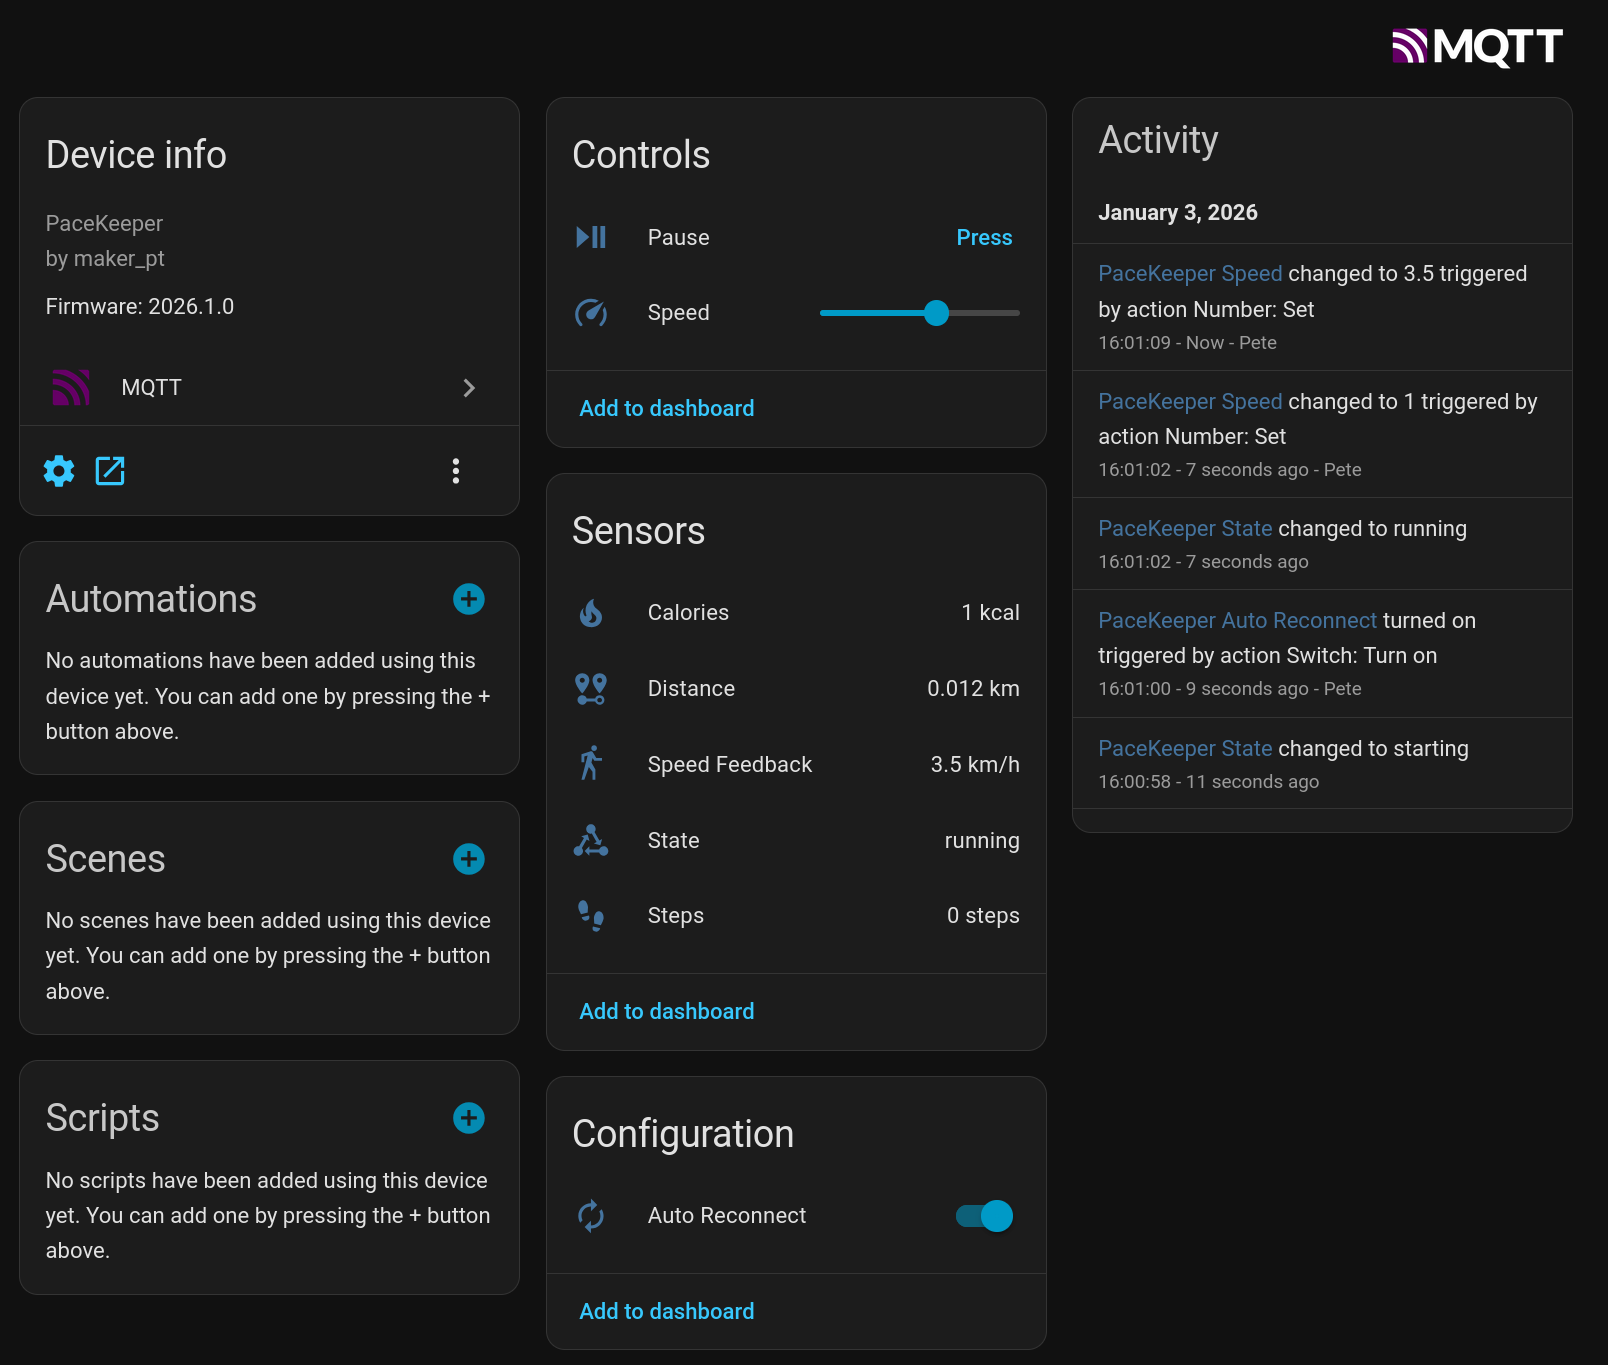
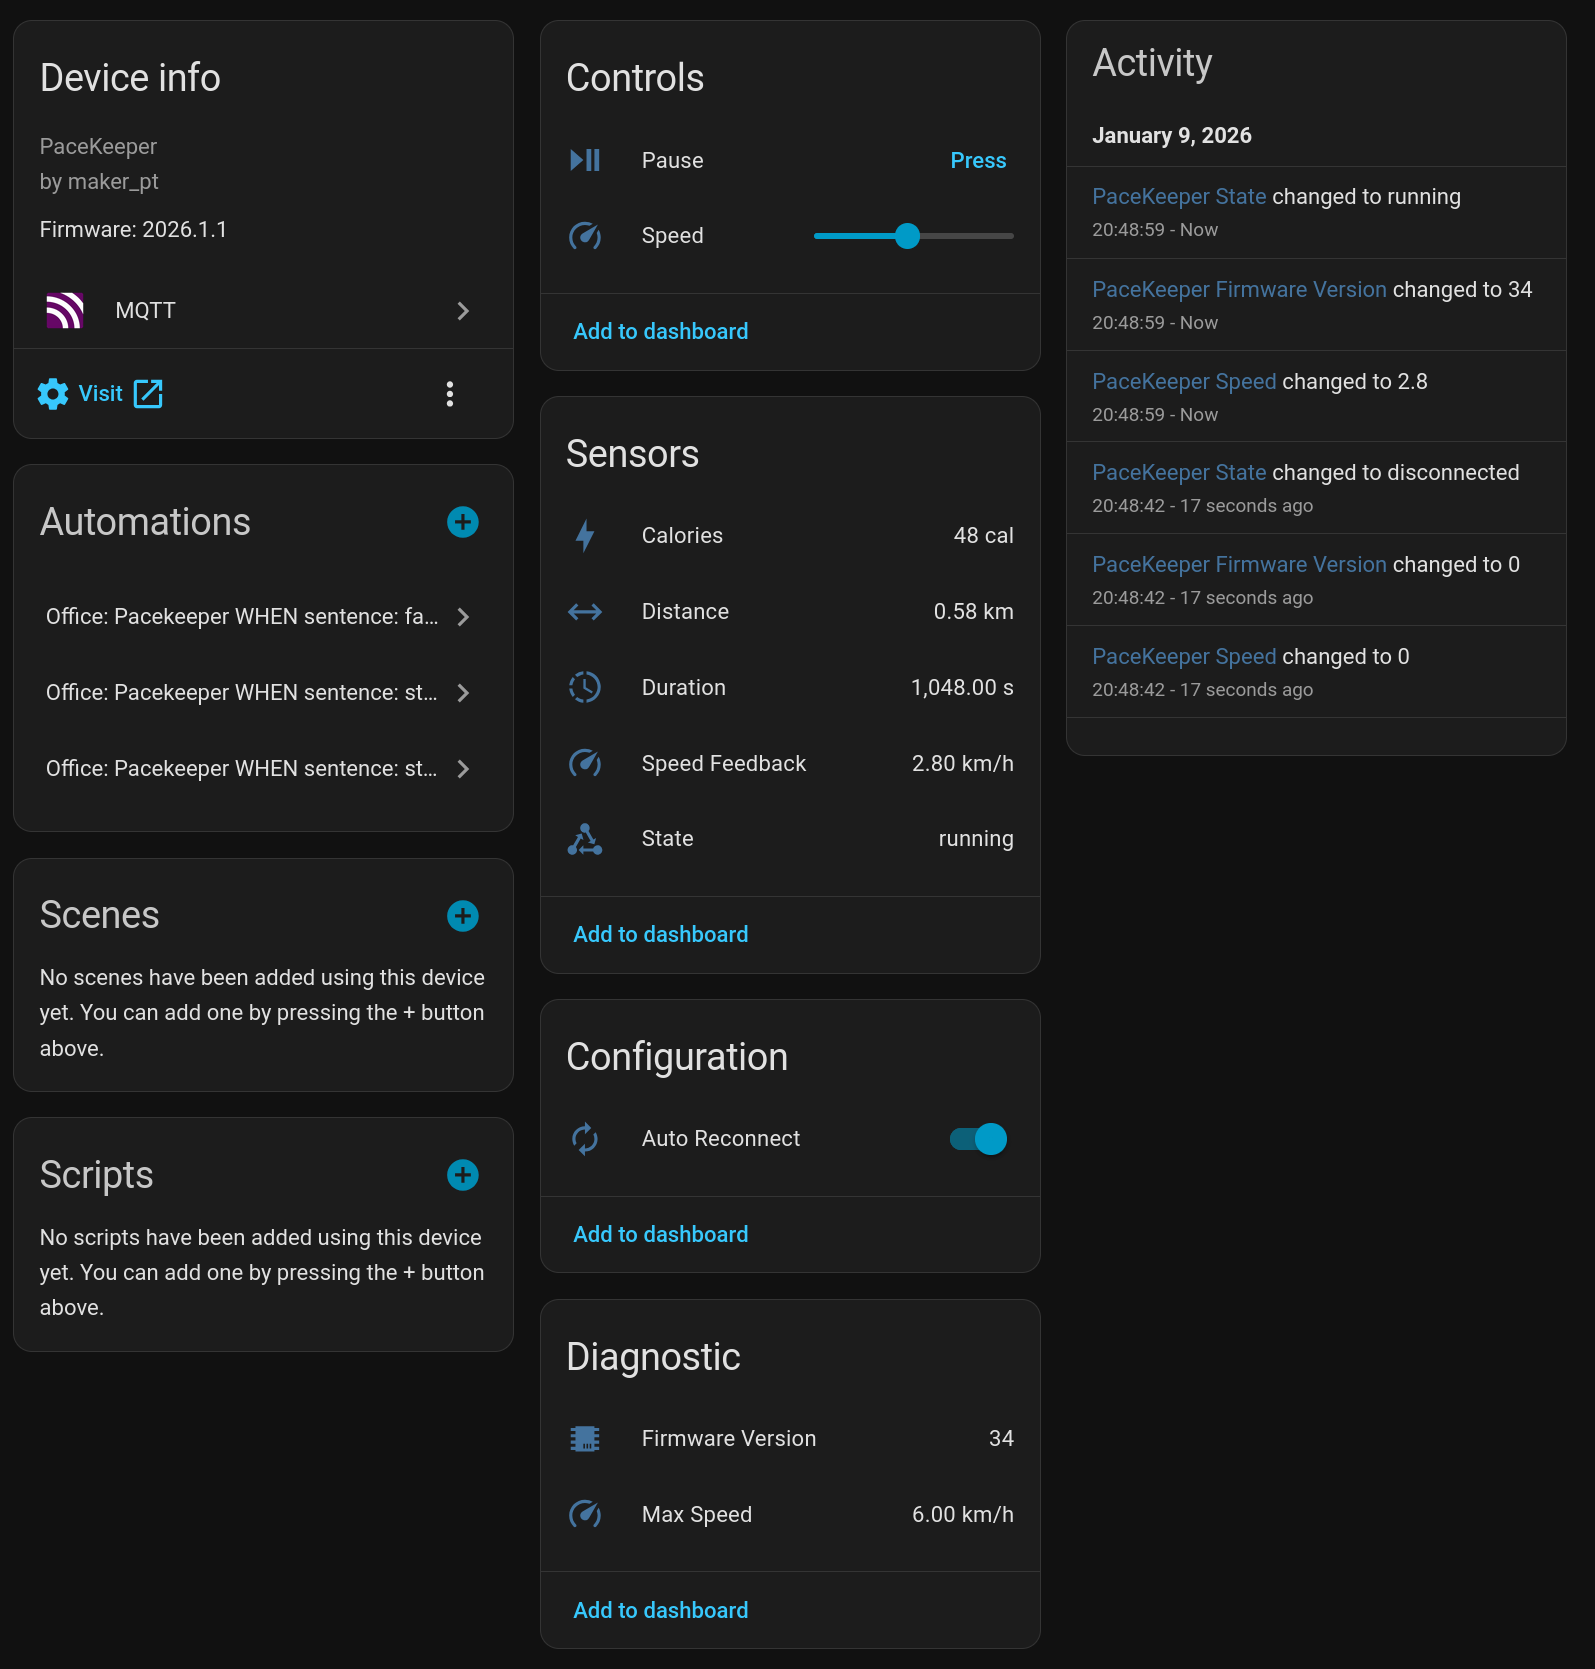
ADD: duration, maxSpeed and fwVersion, use device classes

diff --git a/src/mqttview.h b/src/mqttview.h
@@ -15,48 +15,58 @@ public:
           m_speedFeedback(&m_device, "speed-feedback", "Speed Feedback"),
           m_state(&m_device, "state", "State"),
           m_distance(&m_device, "distance", "Distance"),
+          m_duration(&m_device, "duration", "Duration"),
           m_calories(&m_device, "calories", "Calories"),
           m_steps(&m_device, "steps", "Steps"),
           m_pauseBtn(&m_device, "pause", "Pause"),
-          // Configuration Settings
 
-          m_autoreconnectSwitch(&m_device, "auto-reconnect", "Auto Reconnect")
-    // Diagnostics Elements
+          // Configuration Settings
+          m_autoreconnectSwitch(&m_device, "auto-reconnect", "Auto Reconnect"),
+          // Diagnostics Elements
+          m_maxSpeed(&m_device, "max-speed", "Max Speed"),
+          m_firmware(&m_device, "firmware", "Firmware Version")
+
     {
 
         m_device.setSWVersion(VERSION);
 
         // further mqtt device config
+        m_speed.setCustomStateTopic(m_state.getStateTopic());
         m_speed.setUnit("km/h");
+        m_speed.setDeviceClass("speed");
         m_speed.setMin(0.0f);
         m_speed.setMax(6.0f);
         m_speed.setStep(0.1f);
         m_speed.setMode(NumberMode::SLIDER);
-        m_speed.setCustomStateTopic(m_state.getStateTopic());
-        m_speed.setIcon("mdi:speedometer");
         m_speed.setValueTemplate("{{ value_json.speed_cmd }}");
 
-        m_speedFeedback.setUnit("km/h");
-        m_speedFeedback.setStateClass(MqttSensor::StateClass::MEASUREMENT);
         m_speedFeedback.setCustomStateTopic(m_state.getStateTopic());
-        m_speedFeedback.setIcon("mdi:walk");
+        m_speedFeedback.setUnit("km/h");
+        m_speedFeedback.setDeviceClass("speed");
+        m_speedFeedback.setStateClass(MqttSensor::StateClass::MEASUREMENT);
         m_speedFeedback.setValueTemplate("{{ value_json.speed_feedback }}");
 
-        m_distance.setUnit("km");
-        m_distance.setStateClass(MqttSensor::StateClass::TOTAL_INCREASING);
         m_distance.setCustomStateTopic(m_state.getStateTopic());
-        m_distance.setIcon("mdi:map-marker-distance");
+        m_distance.setUnit("km");
+        m_distance.setDeviceClass("distance");
+        m_distance.setStateClass(MqttSensor::StateClass::TOTAL_INCREASING);
         m_distance.setValueTemplate("{{ value_json.distance_km }}");
 
-        m_calories.setUnit("kcal");
-        m_calories.setStateClass(MqttSensor::StateClass::TOTAL_INCREASING);
+        m_duration.setCustomStateTopic(m_state.getStateTopic());
+        m_duration.setUnit("s");
+        m_duration.setDeviceClass("duration");
+        m_duration.setStateClass(MqttSensor::StateClass::TOTAL_INCREASING);
+        m_duration.setValueTemplate("{{ value_json.duration_sec }}");
+
         m_calories.setCustomStateTopic(m_state.getStateTopic());
-        m_calories.setIcon("mdi:fire");
+        m_calories.setUnit("cal");
+        m_calories.setDeviceClass("energy");
+        m_calories.setStateClass(MqttSensor::StateClass::TOTAL_INCREASING);
         m_calories.setValueTemplate("{{ value_json.calories }}");
 
+        m_steps.setCustomStateTopic(m_state.getStateTopic());
         m_steps.setUnit("steps");
         m_steps.setStateClass(MqttSensor::StateClass::TOTAL_INCREASING);
-        m_steps.setCustomStateTopic(m_state.getStateTopic());
         m_steps.setIcon("mdi:shoe-print");
         m_steps.setValueTemplate("{{ value_json.steps }}");
 
@@ -65,6 +75,17 @@ public:
 
         m_autoreconnectSwitch.setEntityType(EntityCategory::CONFIG);
         m_autoreconnectSwitch.setIcon("mdi:autorenew");
+
+        m_maxSpeed.setCustomStateTopic(m_state.getStateTopic());
+        m_maxSpeed.setEntityType(EntityCategory::DIAGNOSTIC);
+        m_maxSpeed.setUnit("km/h");
+        m_maxSpeed.setDeviceClass("speed");
+        m_maxSpeed.setValueTemplate("{{ value_json.speed_max }}");
+
+        m_firmware.setCustomStateTopic(m_state.getStateTopic());
+        m_firmware.setEntityType(EntityCategory::DIAGNOSTIC);
+        m_firmware.setValueTemplate("{{ value_json.fw }}");
+        m_firmware.setIcon("mdi:chip");
 
         m_pauseBtn.setIcon("mdi:play-pause");
     }
@@ -91,16 +112,26 @@ public:
 
     void publishAllConfigs()
     {
+        // Controls
+        publishConfig(m_pauseBtn);
         publishConfig(m_speed);
+
+        // Sensors
         publishConfig(m_speedFeedback);
         publishConfig(m_state);
-
         publishConfig(m_distance);
+        publishConfig(m_duration);
         publishConfig(m_calories);
-        publishConfig(m_steps);
 
-        publishConfig(m_pauseBtn);
+        // TODO: steps are actually not implemented in this type of treadmill
+        // publishConfig(m_steps);
+
+        // Configuration
         publishConfig(m_autoreconnectSwitch);
+
+        // Diagnostics
+        publishConfig(m_maxSpeed);
+        publishConfig(m_firmware);
     }
 
     void publishAutoReconnectSetting(bool enabled)
@@ -120,15 +151,17 @@ public:
         JsonDocument state;
         state["speed_cmd"] = data.speedCmd;
         state["speed_feedback"] = data.speedFeedback;
+        state["speed_max"] = data.speedMax;
         state["distance_km"] = data.distanceKm;
+        state["duration_sec"] = data.durationSec;
         state["calories"] = data.calories;
         state["steps"] = data.steps;
-
+        state["fw"] = data.fwVersion;
 
         switch (data.status)
         {
-        case TreadMillData::STARTING:
-            state["state"] = "starting";
+        case TreadMillData::COUNTDOWN:
+            state["state"] = "countdown";
             break;
         case TreadMillData::RUNNING:
             state["state"] = "running";
@@ -155,16 +188,27 @@ private:
     PubSubClient *m_client;
 
     MqttDevice m_device;
-    MqttNumber m_speed;
-    MqttSensor m_speedFeedback;
 
-    MqttSensor m_distance;
+    // Controls
+    MqttNumber m_speed;
+    MqttButton m_pauseBtn;
+
+    // Sensors
     MqttSensor m_calories;
+    MqttSensor m_distance;
+    MqttSensor m_duration;
+    MqttSensor m_speedFeedback;
+    MqttSensor m_state;
+
     MqttSensor m_steps;
 
-    MqttSensor m_state;
-    MqttButton m_pauseBtn;
+    // Configuration
+
     MqttSwitch m_autoreconnectSwitch;
+
+    // Diagnostics
+    MqttSensor m_maxSpeed;
+    MqttSensor m_firmware;
 
     void publishConfig(MqttEntity &entity)
     {

diff --git a/src/TreadmillHandler.cpp b/src/TreadmillHandler.cpp
@@ -94,7 +94,7 @@ void TreadmillHandler::handle()
     if (m_doConnect && (millis() - m_lastConnectAttempt > 5000) && m_autoReconnect)
     {
         m_lastConnectAttempt = millis();
-        if (this->connectToServer())
+        if (this->connectToDevice())
         {
             log_i("Connection successful.");
             m_doConnect = false;
@@ -118,7 +118,7 @@ void TreadmillHandler::handle()
     }
 }
 
-bool TreadmillHandler::connectToServer()
+bool TreadmillHandler::connectToDevice()
 {
     if (m_pClient == nullptr)
     {
@@ -270,27 +270,29 @@ void TreadmillHandler::notifyCallback(
     
     // TODO: validate version
     uint8_t fw_version = pData[25];
-    
 
-    uint16_t calories = ((uint16_t)pData[18] << 8) | pData[19];
+    //uint16_t calories = ((uint16_t)pData[18] << 8) | pData[19];
+    uint16_t calories = readU16(pData, 18);
     uint32_t steps = readU32(pData, 14);
     uint32_t duration = readU32(pData, 20);
     uint8_t flags = pData[26];
+
+    uint16_t maxRunSpeed = readU16(pData, 27);
 
     uint8_t unit_mode = (flags & 128) ? 1 : 0;
     uint8_t running_state_bits = flags & 24;
 
     TreadMillData::Status running_state = TreadMillData::STOPPED; // Default stopped
     if (running_state_bits == 24)
-        running_state = TreadMillData::STARTING;
+        running_state = TreadMillData::COUNTDOWN;
     else if (running_state_bits == 8)
         running_state = TreadMillData::RUNNING;
     else if (running_state_bits == 16)
         running_state = TreadMillData::PAUSED;
 
-    const char *statusArr[] = {"Starting", "Running", "Paused", "Stopped"};
+    const char *statusArr[] = {"Countdown", "Running", "Paused", "Stopped"};
     const char *speed_unit = (unit_mode == 1) ? "mph" : "kph";
-    const char *distance_unit = (unit_mode == 1) ? "mi" : "km";
+    const char *distance_unit = (unit_mode == 1) ? "mi" : "km";   
 
     // log_i("--- Treadmill Data ---");
     // log_i("Speed: %.2f %s", (float)current_speed / 1000.0, speed_unit);
@@ -309,6 +311,10 @@ void TreadmillHandler::notifyCallback(
     data.steps = steps;
     data.durationSec = duration / 1000;
     data.status = running_state;
+    data.fwVersion = fw_version;
+    data.speedMax = (float)maxRunSpeed / 1000.0;
+
+    log_d("Max run speed: %.2f %s, FW version: %d", (float)maxRunSpeed / 1000.0, speed_unit, fw_version);
 
     m_lastData = data;
     m_lastDataTimestamp = millis();

diff --git a/src/platform.h b/src/platform.h
@@ -2,7 +2,7 @@
 #include <Arduino.h>
 
 #define SYSTEM_NAME "PaceKeeper"
-#define VERSION "2026.1.0"
+#define VERSION "2026.1.1"
 
 // SERVICE: 00001800-0000-1000-8000-00805f9b34fb (Generic Access Profile)
 //   CHARACTERISTIC: 00002a01-0000-1000-8000-00805f9b34fb [read]
@@ -28,7 +28,7 @@ class TreadMillData
 public:
     enum Status
     {
-        STARTING = 0,
+        COUNTDOWN = 0,
         RUNNING = 1,
         PAUSED = 2,
         STOPPED = 3,
@@ -37,10 +37,11 @@ public:
 
     float speedCmd = 0.0;
     float speedFeedback = 0.0;
+    float speedMax = 0.0;
     float distanceKm = 0.0;
     uint16_t calories = 0;
     uint32_t steps = 0;
     uint32_t durationSec = 0;
+    uint8_t fwVersion = 0;
     Status status = DISCONNECTED; // default to DISCONNECTED when we start up
 };
-

diff --git a/src/TreadmillHandler.h b/src/TreadmillHandler.h
@@ -48,13 +48,12 @@ public:
     {
         m_onDataUpdate = callback;
     }
-    // add a custom callback for data updates
     
 
 private:
     bool sendCommand(const uint8_t *data, size_t length);
     void makePacket(CommandType command, uint16_t speed, uint8_t *outPacket);
-    bool connectToServer();
+    bool connectToDevice();
     void notifyCallback(
         NimBLERemoteCharacteristic *pBLERemoteCharacteristic,
         uint8_t *pData,
